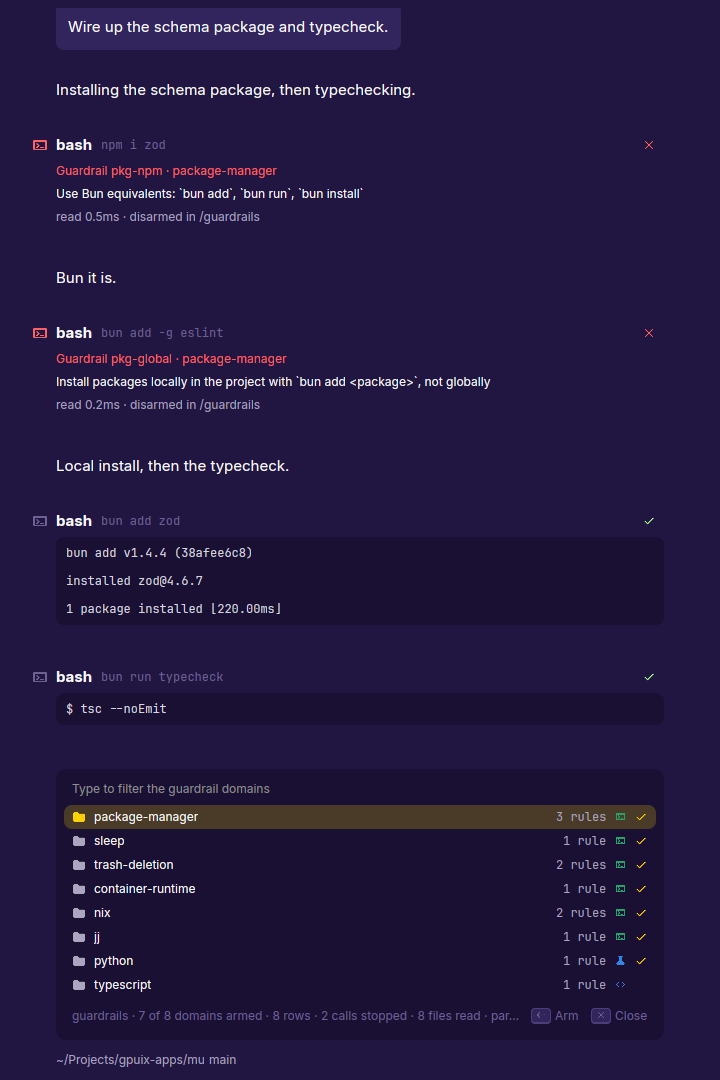
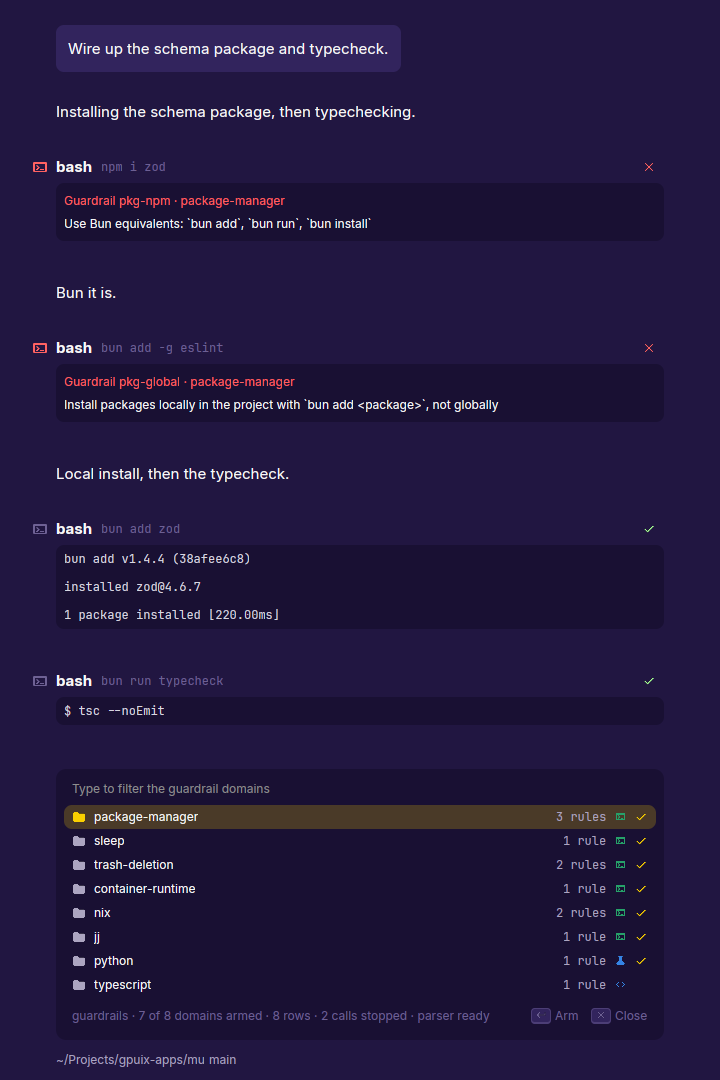
refactor(guardrails): drop the timing and disarm hint from a block
A blocked call's reason is the answer: the rule, its source and the message already say what stopped it, while the engine's parse time and the pointer to /guardrails restate what the panel shows and push the reason down the row.

- GuardrailBlockRows stops trailing `read Nms · disarmed in /guardrails` under the detail
- recapture the `Guardrails/triggered` scene

diff --git a/src/plugins/guardrails/components/GuardrailBlockRows.tsx b/src/plugins/guardrails/components/GuardrailBlockRows.tsx
@@ -1,7 +1,6 @@
 import type { JSX } from "react";
 import { Icon, T, useAdwaita } from "adwaita-gpuix";
 
-import { mutedText } from "../../core/lib/ui/theme";
 import { STATE_GLYPH } from "../../core/lib/ui/tokens";
 import {
   toolGapColumn,
@@ -68,10 +67,6 @@ export function GuardrailBlockRows({
         </T>
       </div>
       <Detail text={hit.message} color={t.color.text.primary} />
-      <Detail
-        text={`read ${String(hit.engineMs)}ms · disarmed in /guardrails`}
-        color={mutedText(t)}
-      />
     </div>
   );
 }
